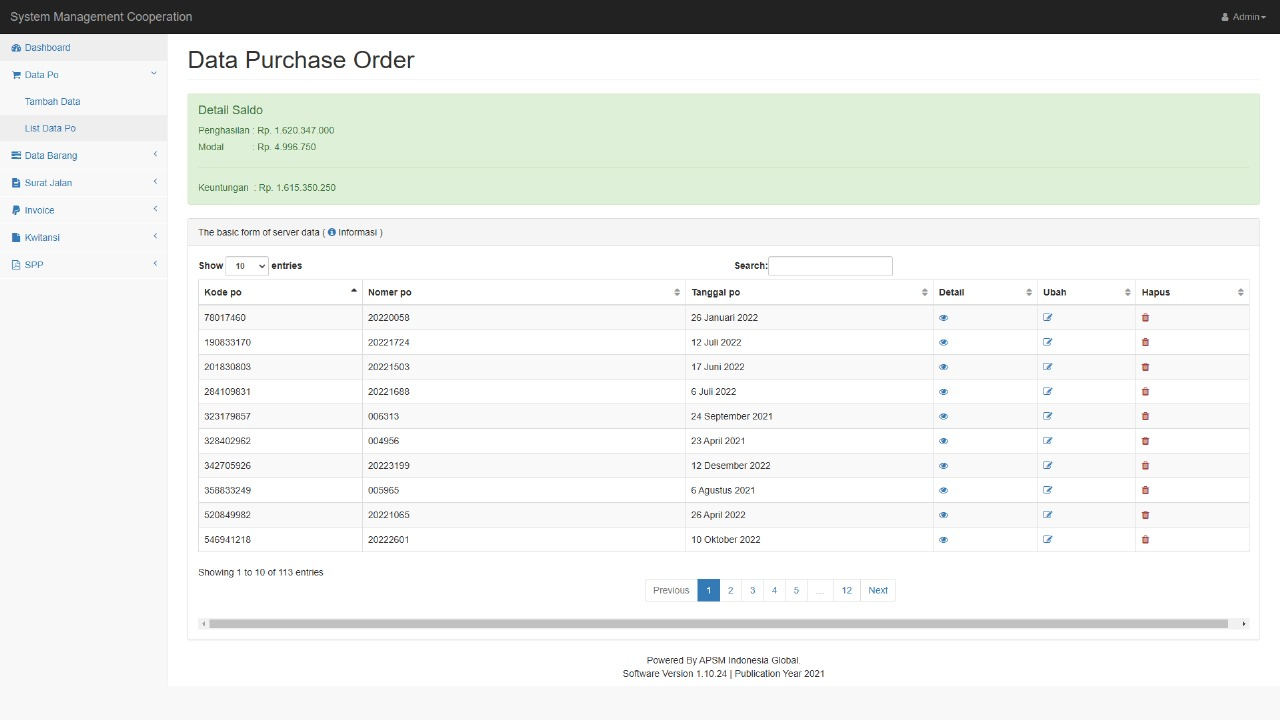
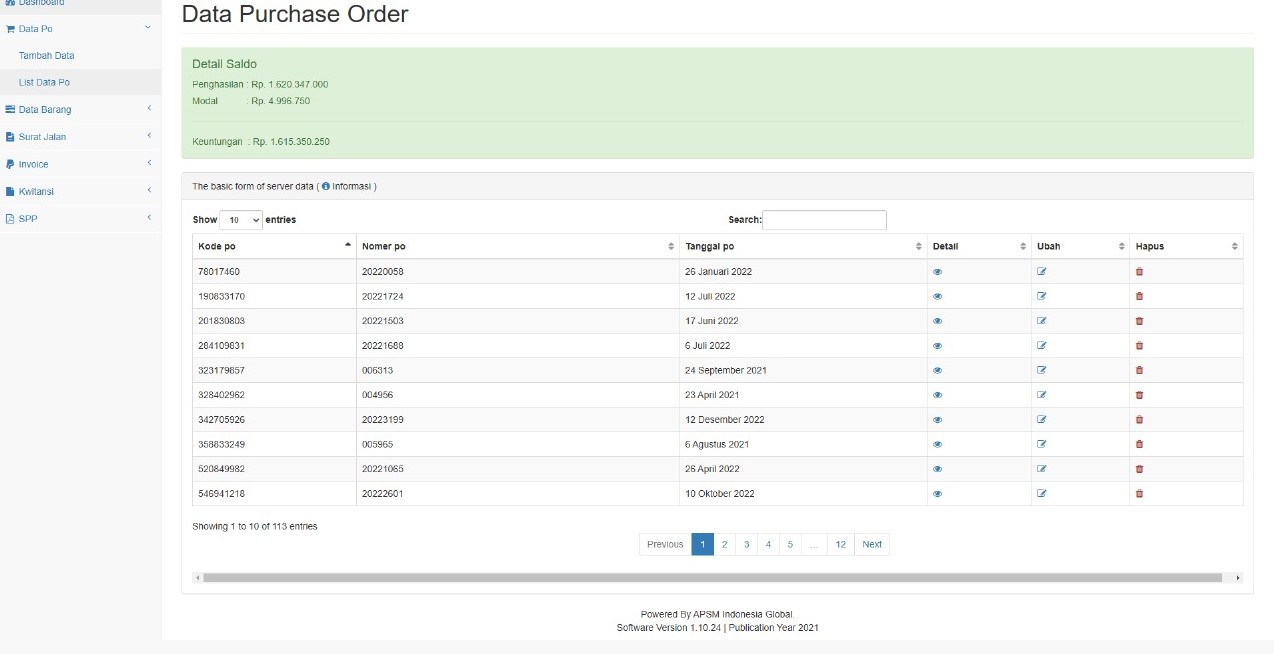
update gambar

diff --git a/components/sections/home/Works.vue b/components/sections/home/Works.vue
@@ -50,7 +50,7 @@ const staticProjects: Project[] = [
     title: "Sistem Aplikasi Absensi Karyawan Berbasis Lokasi (Geolocation Attendance System)",
     description: "pengembangan aplikasi Progressive Web App (PWA) atau aplikasi hybrid untuk manajemen kehadiran karyawan (Pegawai KSCM), yang fitur utamanya bergantung pada lokasi GPS untuk validasi Check-In dan Check-Out.",
     tags: ["React", "Node.js", "MongoDB"],
-    imageUrl: "/attend-system.PNG",
+    imageUrl: "/attend-system.png",
     liveUrl: "",
     githubUrl: "https://github.com/Alamsyahapriatama/employe-attendance-tracking-app.git",
   },
@@ -60,7 +60,7 @@ const staticProjects: Project[] = [
     title: "VoucherVault - Sistem Digitalisasi Dokumen & OCR Terintegrasi ESP32-CAM",
     description: "pengembangan Sistem Manajemen Dokumen (DMS) berbasis web yang dirancang untuk mempermudah dan mendigitalisasi proses capturing (pengambilan gambar), penyimpanan, dan ekstraksi data dari dokumen fisik (seperti invoice atau voucher), khususnya di lingkungan seperti PT Jababeka Morotai.",
     tags: ["React","Python", "PHP", "Node.js", "MySQL"],
-    imageUrl: "/web-scan-storage-system.JPG",
+    imageUrl: "/web-scan-storage-system.jpg",
     liveUrl: "",
     githubUrl: "https://github.com/Alamsyahapriatama/esp32cam-scan.git",
   },
@@ -70,7 +70,7 @@ const staticProjects: Project[] = [
     title: "Sistem Manajemen Purchase Order (PO) dan Keuangan",
     description: " Proyek ini adalah pengembangan modul krusial dalam sebuah Sistem Manajemen Terpadu yang berfokus pada efisiensi proses pengadaan barang (PO) dan analisis keuangan terkait (Profit & Loss). Modul ini bertujuan mendigitalisasi dan menyederhanakan pelacakan transaksi PO dan status saldo perusahaan.",
     tags: ["React", "Node.js", "MongoDB"],
-    imageUrl: "/Sistem-management.JPG",
+    imageUrl: "/Sistem-management.jpg",
     liveUrl: "",
     githubUrl: "",
   },
